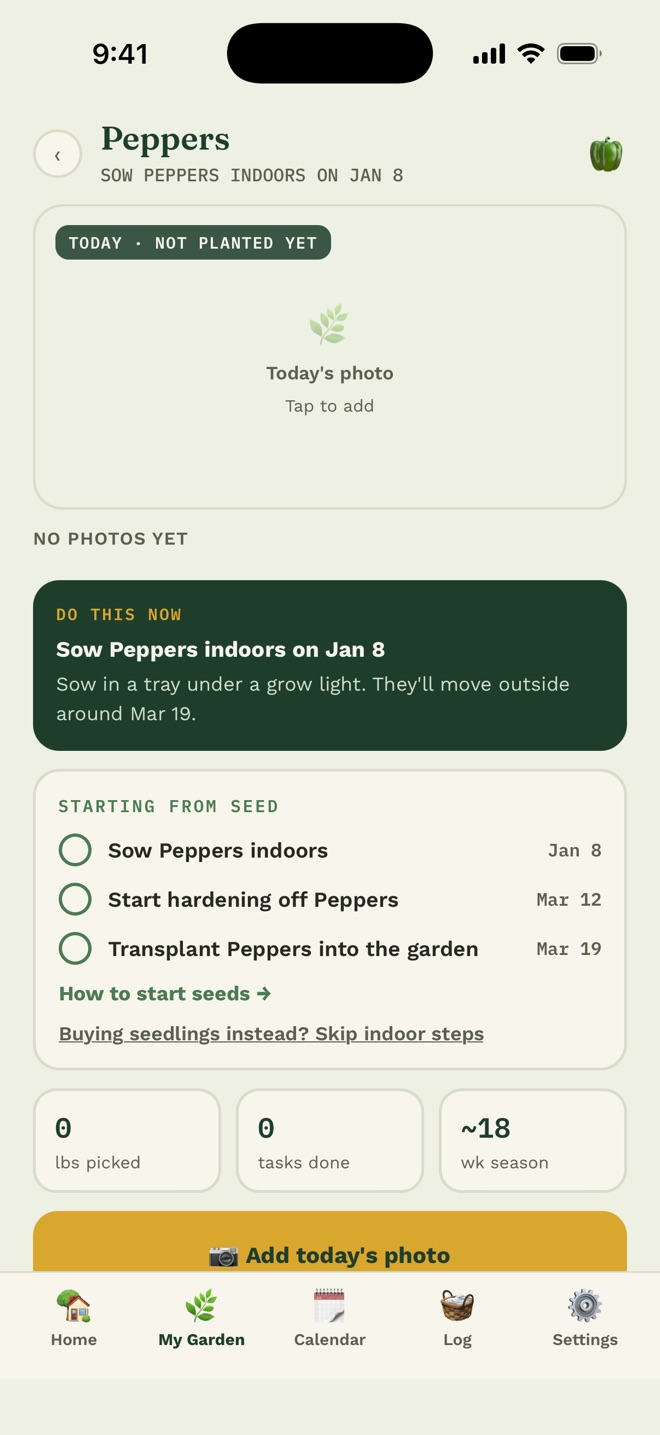
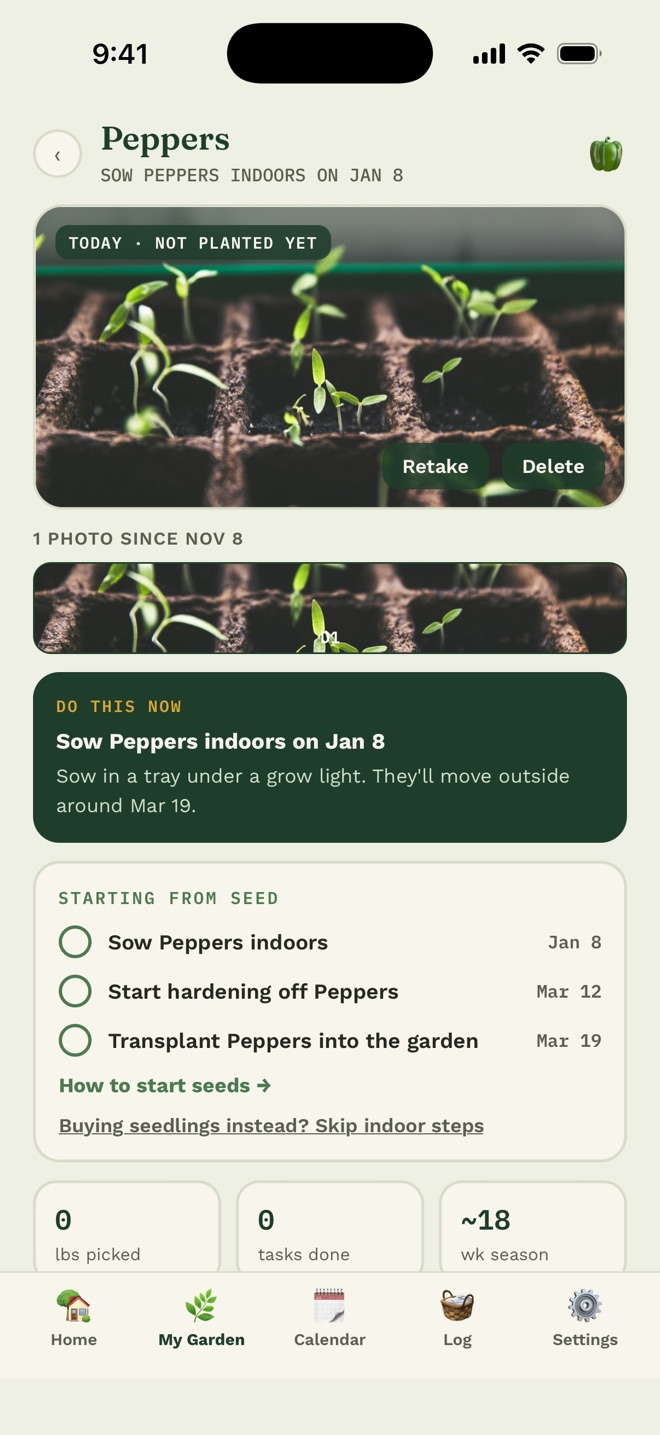
DRAFT: small-space line, 'Did you know' spinach fact with inline source, new CTA heading, footer tagline removed, real pepper seedling photo

diff --git a/docs/index.html b/docs/index.html
@@ -60,14 +60,14 @@
     <div class="split-head reveal">
       <div class="eyebrow">Why grow your own</div>
       <h2>The best food you’ll eat all year is a few steps from your back door.</h2>
+      <p class="split-sub">No backyard? No problem. A sunny balcony, a patio, or a few pots by the window can grow more food than you’d think.</p>
     </div>
     <div class="why-grid">
       <div class="why-card reveal"><div class="feature-icon">🥕</div><h3>Food you trust</h3><p>You choose the seeds, the soil, and everything that goes on your plants, so you always know exactly where dinner came from.</p></div>
-      <div class="why-card reveal"><div class="feature-icon">🥬</div><h3>More nutritious, too</h3><p>Spinach can lose nearly half its folate in about a week in the fridge. Grow your own, and it goes from garden to plate in minutes.</p></div>
+      <div class="why-card reveal"><div class="feature-icon">🥬</div><h3>More nutritious, too</h3><p>Did you know that spinach can lose nearly half its folate in about a week in the fridge?<a class="fn-mark" href="#fn-folate" aria-label="Source">*</a> Grow your own, and it goes from garden to plate in minutes.</p><p class="why-fn" id="fn-folate">* <a href="https://www.psu.edu/news/research/story/storage-time-and-temperature-effects-nutrients-spinach" target="_blank" rel="noopener">Penn State study of spinach storage, 2005</a></p></div>
       <div class="why-card reveal"><div class="feature-icon">💰</div><h3>Saves money over time</h3><p>A packet of lettuce seeds costs about the same as one bag of salad greens, and can keep you in salads for months.</p></div>
-      <div class="why-card reveal"><div class="feature-icon">🌱</div><h3>Easier than you think</h3><p>You don’t need a green thumb, just a plan. GardenWise gives you one for your backyard and walks you through it, step by step.</p></div>
+      <div class="why-card reveal"><div class="feature-icon">🌱</div><h3>Easier than you think</h3><p>You don’t need a green thumb, just a plan. GardenWise gives you one for wherever you grow and walks you through it, step by step.</p></div>
     </div>
-    <p class="why-source">Folate figure: <a href="https://www.psu.edu/news/research/story/storage-time-and-temperature-effects-nutrients-spinach" target="_blank" rel="noopener">Penn State study of spinach storage, 2005</a>.</p>
   </div>
 </section>
 
@@ -86,7 +86,7 @@
     </div>
     <div class="seeds-phones reveal">
       <div class="phone phone-back"><img src="/img/app-guide.jpg" width="660" height="1435" alt="The Seed starting 101 guide: seed-starting mix, a tray with a clear lid, a heat mat, a grow light, and a timer." loading="lazy"></div>
-      <div class="phone phone-front"><img src="/img/app-plant.jpg" width="660" height="1435" alt="The Peppers page: sow indoors Jan 8, start hardening off Mar 12, transplant Mar 19." loading="lazy"></div>
+      <div class="phone phone-front"><img src="/img/app-plant.jpg" width="660" height="1435" alt="The Peppers page with a photo of pepper seedlings in a tray: sow indoors Jan 8, start hardening off Mar 12, transplant Mar 19." loading="lazy"></div>
     </div>
   </div>
 </section>
@@ -188,7 +188,7 @@
 <section class="cta-band" id="waitlist">
   <div class="wrap reveal">
     <div class="eyebrow">Free on iPhone</div>
-    <h2>Start your garden plan today.</h2>
+    <h2>Start growing your own food today.</h2>
     <div class="band-badge"><a class="store-badge" href="https://apps.apple.com/us/app/gardenwise-care-reminders/id6817450373" aria-label="Download GardenWise on the App Store"><img src="/img/app-store-badge.svg" alt="Download on the App Store" width="180" height="60"></a></div>
     <p class="tips-lead">Not ready yet? Get seasonal garden tips by email.</p>
     <form class="waitlist" data-waitlist novalidate>
@@ -204,7 +204,6 @@
 
 <footer class="site-footer">
   <div class="wordmark"><svg class="brand-icon" viewBox="0 0 100 100" width="26" height="26" aria-hidden="true"><rect width="100" height="100" rx="24" fill="#F7EFD9"/><path transform="translate(39.65,33.96) rotate(-32)" d="M0,0 C-5,-1.93 -5,-9.08 0,-11 C5,-9.08 5,-1.93 0,0 Z" fill="#4C7A52"/><path transform="translate(60.35,33.96) rotate(32)" d="M0,0 C-5,-1.93 -5,-9.08 0,-11 C5,-9.08 5,-1.93 0,0 Z" fill="#1F3D2B"/><path d="M50,32 C27.5,32 23.45,68.75 34.25,81 C43.25,85.41 50,85.41 50,81.49 Z" fill="#1F3D2B"/><path d="M50,32 C72.5,32 76.55,68.75 65.75,81 C56.75,85.41 50,85.41 50,81.49 Z" fill="#4C7A52"/><circle cx="40.55" cy="53.56" r="7.5" fill="#F7F5EC"/><circle cx="59.45" cy="53.56" r="7.5" fill="#F7F5EC"/><circle cx="40.55" cy="53.56" r="3.2" fill="#1F3D2B"/><circle cx="59.45" cy="53.56" r="3.2" fill="#1F3D2B"/><path d="M47.6,57.97 L52.4,57.97 L50,60.91 Z" fill="#E3B94C"/></svg> GardenWise</div>
-  <div class="tagline">Grow your own food.</div>
   <div class="social"><a class="social-link" href="https://www.instagram.com/gardenwise.io/" target="_blank" rel="noopener" aria-label="GardenWise on Instagram"><svg viewBox="0 0 24 24" width="20" height="20" aria-hidden="true"><rect x="3" y="3" width="18" height="18" rx="5" fill="none" stroke="currentColor" stroke-width="2"/><circle cx="12" cy="12" r="4.2" fill="none" stroke="currentColor" stroke-width="2"/><circle cx="17.4" cy="6.6" r="1.3" fill="currentColor"/></svg></a><a class="social-link" href="https://www.facebook.com/gardenwise.io" target="_blank" rel="noopener" aria-label="GardenWise on Facebook"><svg viewBox="0 0 24 24" width="20" height="20" aria-hidden="true"><circle cx="12" cy="12" r="10" fill="none" stroke="currentColor" stroke-width="2"/><path d="M13.2 20.5v-6.9h2.3l.35-2.7H13.2V9.2c0-.78.22-1.3 1.33-1.3h1.42V5.5a19 19 0 0 0-2.07-.1c-2.05 0-3.45 1.25-3.45 3.55v1.95H8.1v2.7h2.33v6.9" fill="currentColor"/></svg></a><a class="social-link" href="https://www.tiktok.com/@gardenwise.io" target="_blank" rel="noopener" aria-label="GardenWise on TikTok"><svg viewBox="0 0 24 24" width="20" height="20" aria-hidden="true"><path d="M14.5 3h2.6c.2 1.9 1.5 3.3 3.4 3.6v2.6a6.3 6.3 0 0 1-3.4-1.1v6.6a5.6 5.6 0 1 1-5.6-5.6c.3 0 .6 0 .9.1v2.7a3 3 0 1 0 2.1 2.8z" fill="currentColor"/></svg></a></div>
   <div class="copy">© 2026 GardenWise · <a href="/blog/">Blog</a> · <a href="/privacy.html">Privacy Policy</a> · <a href="/support.html">Support</a></div>
 </footer>

diff --git a/docs/blog/when-to-fertilize-fruit-trees.html b/docs/blog/when-to-fertilize-fruit-trees.html
@@ -104,7 +104,6 @@
 
 <footer class="site-footer">
   <div class="wordmark"><svg class="brand-icon" viewBox="0 0 100 100" width="26" height="26" aria-hidden="true"><rect width="100" height="100" rx="24" fill="#F7EFD9"/><path transform="translate(39.65,33.96) rotate(-32)" d="M0,0 C-5,-1.93 -5,-9.08 0,-11 C5,-9.08 5,-1.93 0,0 Z" fill="#4C7A52"/><path transform="translate(60.35,33.96) rotate(32)" d="M0,0 C-5,-1.93 -5,-9.08 0,-11 C5,-9.08 5,-1.93 0,0 Z" fill="#1F3D2B"/><path d="M50,32 C27.5,32 23.45,68.75 34.25,81 C43.25,85.41 50,85.41 50,81.49 Z" fill="#1F3D2B"/><path d="M50,32 C72.5,32 76.55,68.75 65.75,81 C56.75,85.41 50,85.41 50,81.49 Z" fill="#4C7A52"/><circle cx="40.55" cy="53.56" r="7.5" fill="#F7F5EC"/><circle cx="59.45" cy="53.56" r="7.5" fill="#F7F5EC"/><circle cx="40.55" cy="53.56" r="3.2" fill="#1F3D2B"/><circle cx="59.45" cy="53.56" r="3.2" fill="#1F3D2B"/><path d="M47.6,57.97 L52.4,57.97 L50,60.91 Z" fill="#E3B94C"/></svg> GardenWise</div>
-  <div class="tagline">Grow your own food.</div>
   <div class="social"><a class="social-link" href="https://www.instagram.com/gardenwise.io/" target="_blank" rel="noopener" aria-label="GardenWise on Instagram"><svg viewBox="0 0 24 24" width="20" height="20" aria-hidden="true"><rect x="3" y="3" width="18" height="18" rx="5" fill="none" stroke="currentColor" stroke-width="2"/><circle cx="12" cy="12" r="4.2" fill="none" stroke="currentColor" stroke-width="2"/><circle cx="17.4" cy="6.6" r="1.3" fill="currentColor"/></svg></a><a class="social-link" href="https://www.facebook.com/gardenwise.io" target="_blank" rel="noopener" aria-label="GardenWise on Facebook"><svg viewBox="0 0 24 24" width="20" height="20" aria-hidden="true"><circle cx="12" cy="12" r="10" fill="none" stroke="currentColor" stroke-width="2"/><path d="M13.2 20.5v-6.9h2.3l.35-2.7H13.2V9.2c0-.78.22-1.3 1.33-1.3h1.42V5.5a19 19 0 0 0-2.07-.1c-2.05 0-3.45 1.25-3.45 3.55v1.95H8.1v2.7h2.33v6.9" fill="currentColor"/></svg></a><a class="social-link" href="https://www.tiktok.com/@gardenwise.io" target="_blank" rel="noopener" aria-label="GardenWise on TikTok"><svg viewBox="0 0 24 24" width="20" height="20" aria-hidden="true"><path d="M14.5 3h2.6c.2 1.9 1.5 3.3 3.4 3.6v2.6a6.3 6.3 0 0 1-3.4-1.1v6.6a5.6 5.6 0 1 1-5.6-5.6c.3 0 .6 0 .9.1v2.7a3 3 0 1 0 2.1 2.8z" fill="currentColor"/></svg></a></div>
   <div class="copy">© 2026 GardenWise · <a href="/blog/">Blog</a> · <a href="/privacy.html">Privacy Policy</a> · <a href="/support.html">Support</a></div>
 </footer>

diff --git a/docs/blog/when-to-start-seeds-indoors.html b/docs/blog/when-to-start-seeds-indoors.html
@@ -141,7 +141,6 @@
 
 <footer class="site-footer">
   <div class="wordmark"><svg class="brand-icon" viewBox="0 0 100 100" width="26" height="26" aria-hidden="true"><rect width="100" height="100" rx="24" fill="#F7EFD9"/><path transform="translate(39.65,33.96) rotate(-32)" d="M0,0 C-5,-1.93 -5,-9.08 0,-11 C5,-9.08 5,-1.93 0,0 Z" fill="#4C7A52"/><path transform="translate(60.35,33.96) rotate(32)" d="M0,0 C-5,-1.93 -5,-9.08 0,-11 C5,-9.08 5,-1.93 0,0 Z" fill="#1F3D2B"/><path d="M50,32 C27.5,32 23.45,68.75 34.25,81 C43.25,85.41 50,85.41 50,81.49 Z" fill="#1F3D2B"/><path d="M50,32 C72.5,32 76.55,68.75 65.75,81 C56.75,85.41 50,85.41 50,81.49 Z" fill="#4C7A52"/><circle cx="40.55" cy="53.56" r="7.5" fill="#F7F5EC"/><circle cx="59.45" cy="53.56" r="7.5" fill="#F7F5EC"/><circle cx="40.55" cy="53.56" r="3.2" fill="#1F3D2B"/><circle cx="59.45" cy="53.56" r="3.2" fill="#1F3D2B"/><path d="M47.6,57.97 L52.4,57.97 L50,60.91 Z" fill="#E3B94C"/></svg> GardenWise</div>
-  <div class="tagline">Grow your own food.</div>
   <div class="social"><a class="social-link" href="https://www.instagram.com/gardenwise.io/" target="_blank" rel="noopener" aria-label="GardenWise on Instagram"><svg viewBox="0 0 24 24" width="20" height="20" aria-hidden="true"><rect x="3" y="3" width="18" height="18" rx="5" fill="none" stroke="currentColor" stroke-width="2"/><circle cx="12" cy="12" r="4.2" fill="none" stroke="currentColor" stroke-width="2"/><circle cx="17.4" cy="6.6" r="1.3" fill="currentColor"/></svg></a><a class="social-link" href="https://www.facebook.com/gardenwise.io" target="_blank" rel="noopener" aria-label="GardenWise on Facebook"><svg viewBox="0 0 24 24" width="20" height="20" aria-hidden="true"><circle cx="12" cy="12" r="10" fill="none" stroke="currentColor" stroke-width="2"/><path d="M13.2 20.5v-6.9h2.3l.35-2.7H13.2V9.2c0-.78.22-1.3 1.33-1.3h1.42V5.5a19 19 0 0 0-2.07-.1c-2.05 0-3.45 1.25-3.45 3.55v1.95H8.1v2.7h2.33v6.9" fill="currentColor"/></svg></a><a class="social-link" href="https://www.tiktok.com/@gardenwise.io" target="_blank" rel="noopener" aria-label="GardenWise on TikTok"><svg viewBox="0 0 24 24" width="20" height="20" aria-hidden="true"><path d="M14.5 3h2.6c.2 1.9 1.5 3.3 3.4 3.6v2.6a6.3 6.3 0 0 1-3.4-1.1v6.6a5.6 5.6 0 1 1-5.6-5.6c.3 0 .6 0 .9.1v2.7a3 3 0 1 0 2.1 2.8z" fill="currentColor"/></svg></a></div>
   <div class="copy">© 2026 GardenWise · <a href="/blog/">Blog</a> · <a href="/privacy.html">Privacy Policy</a> · <a href="/support.html">Support</a></div>
 </footer>

diff --git a/docs/privacy.html b/docs/privacy.html
@@ -114,7 +114,6 @@
 
 <footer class="site-footer">
   <div class="wordmark"><svg class="brand-icon" viewBox="0 0 100 100" width="26" height="26" aria-hidden="true"><rect width="100" height="100" rx="24" fill="#F7EFD9"/><path transform="translate(39.65,33.96) rotate(-32)" d="M0,0 C-5,-1.93 -5,-9.08 0,-11 C5,-9.08 5,-1.93 0,0 Z" fill="#4C7A52"/><path transform="translate(60.35,33.96) rotate(32)" d="M0,0 C-5,-1.93 -5,-9.08 0,-11 C5,-9.08 5,-1.93 0,0 Z" fill="#1F3D2B"/><path d="M50,32 C27.5,32 23.45,68.75 34.25,81 C43.25,85.41 50,85.41 50,81.49 Z" fill="#1F3D2B"/><path d="M50,32 C72.5,32 76.55,68.75 65.75,81 C56.75,85.41 50,85.41 50,81.49 Z" fill="#4C7A52"/><circle cx="40.55" cy="53.56" r="7.5" fill="#F7F5EC"/><circle cx="59.45" cy="53.56" r="7.5" fill="#F7F5EC"/><circle cx="40.55" cy="53.56" r="3.2" fill="#1F3D2B"/><circle cx="59.45" cy="53.56" r="3.2" fill="#1F3D2B"/><path d="M47.6,57.97 L52.4,57.97 L50,60.91 Z" fill="#E3B94C"/></svg> GardenWise</div>
-  <div class="tagline">Grow your own food.</div>
   <div class="social"><a class="social-link" href="https://www.instagram.com/gardenwise.io/" target="_blank" rel="noopener" aria-label="GardenWise on Instagram"><svg viewBox="0 0 24 24" width="20" height="20" aria-hidden="true"><rect x="3" y="3" width="18" height="18" rx="5" fill="none" stroke="currentColor" stroke-width="2"/><circle cx="12" cy="12" r="4.2" fill="none" stroke="currentColor" stroke-width="2"/><circle cx="17.4" cy="6.6" r="1.3" fill="currentColor"/></svg></a><a class="social-link" href="https://www.facebook.com/gardenwise.io" target="_blank" rel="noopener" aria-label="GardenWise on Facebook"><svg viewBox="0 0 24 24" width="20" height="20" aria-hidden="true"><circle cx="12" cy="12" r="10" fill="none" stroke="currentColor" stroke-width="2"/><path d="M13.2 20.5v-6.9h2.3l.35-2.7H13.2V9.2c0-.78.22-1.3 1.33-1.3h1.42V5.5a19 19 0 0 0-2.07-.1c-2.05 0-3.45 1.25-3.45 3.55v1.95H8.1v2.7h2.33v6.9" fill="currentColor"/></svg></a><a class="social-link" href="https://www.tiktok.com/@gardenwise.io" target="_blank" rel="noopener" aria-label="GardenWise on TikTok"><svg viewBox="0 0 24 24" width="20" height="20" aria-hidden="true"><path d="M14.5 3h2.6c.2 1.9 1.5 3.3 3.4 3.6v2.6a6.3 6.3 0 0 1-3.4-1.1v6.6a5.6 5.6 0 1 1-5.6-5.6c.3 0 .6 0 .9.1v2.7a3 3 0 1 0 2.1 2.8z" fill="currentColor"/></svg></a></div>
   <div class="copy">© 2026 GardenWise · <a href="/blog/">Blog</a> · <a href="/privacy.html">Privacy Policy</a> · <a href="/support.html">Support</a></div>
 </footer>

diff --git a/docs/blog/container-citrus-tree-care.html b/docs/blog/container-citrus-tree-care.html
@@ -91,7 +91,6 @@
 
 <footer class="site-footer">
   <div class="wordmark"><svg class="brand-icon" viewBox="0 0 100 100" width="26" height="26" aria-hidden="true"><rect width="100" height="100" rx="24" fill="#F7EFD9"/><path transform="translate(39.65,33.96) rotate(-32)" d="M0,0 C-5,-1.93 -5,-9.08 0,-11 C5,-9.08 5,-1.93 0,0 Z" fill="#4C7A52"/><path transform="translate(60.35,33.96) rotate(32)" d="M0,0 C-5,-1.93 -5,-9.08 0,-11 C5,-9.08 5,-1.93 0,0 Z" fill="#1F3D2B"/><path d="M50,32 C27.5,32 23.45,68.75 34.25,81 C43.25,85.41 50,85.41 50,81.49 Z" fill="#1F3D2B"/><path d="M50,32 C72.5,32 76.55,68.75 65.75,81 C56.75,85.41 50,85.41 50,81.49 Z" fill="#4C7A52"/><circle cx="40.55" cy="53.56" r="7.5" fill="#F7F5EC"/><circle cx="59.45" cy="53.56" r="7.5" fill="#F7F5EC"/><circle cx="40.55" cy="53.56" r="3.2" fill="#1F3D2B"/><circle cx="59.45" cy="53.56" r="3.2" fill="#1F3D2B"/><path d="M47.6,57.97 L52.4,57.97 L50,60.91 Z" fill="#E3B94C"/></svg> GardenWise</div>
-  <div class="tagline">Grow your own food.</div>
   <div class="social"><a class="social-link" href="https://www.instagram.com/gardenwise.io/" target="_blank" rel="noopener" aria-label="GardenWise on Instagram"><svg viewBox="0 0 24 24" width="20" height="20" aria-hidden="true"><rect x="3" y="3" width="18" height="18" rx="5" fill="none" stroke="currentColor" stroke-width="2"/><circle cx="12" cy="12" r="4.2" fill="none" stroke="currentColor" stroke-width="2"/><circle cx="17.4" cy="6.6" r="1.3" fill="currentColor"/></svg></a><a class="social-link" href="https://www.facebook.com/gardenwise.io" target="_blank" rel="noopener" aria-label="GardenWise on Facebook"><svg viewBox="0 0 24 24" width="20" height="20" aria-hidden="true"><circle cx="12" cy="12" r="10" fill="none" stroke="currentColor" stroke-width="2"/><path d="M13.2 20.5v-6.9h2.3l.35-2.7H13.2V9.2c0-.78.22-1.3 1.33-1.3h1.42V5.5a19 19 0 0 0-2.07-.1c-2.05 0-3.45 1.25-3.45 3.55v1.95H8.1v2.7h2.33v6.9" fill="currentColor"/></svg></a><a class="social-link" href="https://www.tiktok.com/@gardenwise.io" target="_blank" rel="noopener" aria-label="GardenWise on TikTok"><svg viewBox="0 0 24 24" width="20" height="20" aria-hidden="true"><path d="M14.5 3h2.6c.2 1.9 1.5 3.3 3.4 3.6v2.6a6.3 6.3 0 0 1-3.4-1.1v6.6a5.6 5.6 0 1 1-5.6-5.6c.3 0 .6 0 .9.1v2.7a3 3 0 1 0 2.1 2.8z" fill="currentColor"/></svg></a></div>
   <div class="copy">© 2026 GardenWise · <a href="/blog/">Blog</a> · <a href="/privacy.html">Privacy Policy</a> · <a href="/support.html">Support</a></div>
 </footer>

diff --git a/docs/blog/hardiness-zones-vs-frost-dates.html b/docs/blog/hardiness-zones-vs-frost-dates.html
@@ -89,7 +89,6 @@
 
 <footer class="site-footer">
   <div class="wordmark"><svg class="brand-icon" viewBox="0 0 100 100" width="26" height="26" aria-hidden="true"><rect width="100" height="100" rx="24" fill="#F7EFD9"/><path transform="translate(39.65,33.96) rotate(-32)" d="M0,0 C-5,-1.93 -5,-9.08 0,-11 C5,-9.08 5,-1.93 0,0 Z" fill="#4C7A52"/><path transform="translate(60.35,33.96) rotate(32)" d="M0,0 C-5,-1.93 -5,-9.08 0,-11 C5,-9.08 5,-1.93 0,0 Z" fill="#1F3D2B"/><path d="M50,32 C27.5,32 23.45,68.75 34.25,81 C43.25,85.41 50,85.41 50,81.49 Z" fill="#1F3D2B"/><path d="M50,32 C72.5,32 76.55,68.75 65.75,81 C56.75,85.41 50,85.41 50,81.49 Z" fill="#4C7A52"/><circle cx="40.55" cy="53.56" r="7.5" fill="#F7F5EC"/><circle cx="59.45" cy="53.56" r="7.5" fill="#F7F5EC"/><circle cx="40.55" cy="53.56" r="3.2" fill="#1F3D2B"/><circle cx="59.45" cy="53.56" r="3.2" fill="#1F3D2B"/><path d="M47.6,57.97 L52.4,57.97 L50,60.91 Z" fill="#E3B94C"/></svg> GardenWise</div>
-  <div class="tagline">Grow your own food.</div>
   <div class="social"><a class="social-link" href="https://www.instagram.com/gardenwise.io/" target="_blank" rel="noopener" aria-label="GardenWise on Instagram"><svg viewBox="0 0 24 24" width="20" height="20" aria-hidden="true"><rect x="3" y="3" width="18" height="18" rx="5" fill="none" stroke="currentColor" stroke-width="2"/><circle cx="12" cy="12" r="4.2" fill="none" stroke="currentColor" stroke-width="2"/><circle cx="17.4" cy="6.6" r="1.3" fill="currentColor"/></svg></a><a class="social-link" href="https://www.facebook.com/gardenwise.io" target="_blank" rel="noopener" aria-label="GardenWise on Facebook"><svg viewBox="0 0 24 24" width="20" height="20" aria-hidden="true"><circle cx="12" cy="12" r="10" fill="none" stroke="currentColor" stroke-width="2"/><path d="M13.2 20.5v-6.9h2.3l.35-2.7H13.2V9.2c0-.78.22-1.3 1.33-1.3h1.42V5.5a19 19 0 0 0-2.07-.1c-2.05 0-3.45 1.25-3.45 3.55v1.95H8.1v2.7h2.33v6.9" fill="currentColor"/></svg></a><a class="social-link" href="https://www.tiktok.com/@gardenwise.io" target="_blank" rel="noopener" aria-label="GardenWise on TikTok"><svg viewBox="0 0 24 24" width="20" height="20" aria-hidden="true"><path d="M14.5 3h2.6c.2 1.9 1.5 3.3 3.4 3.6v2.6a6.3 6.3 0 0 1-3.4-1.1v6.6a5.6 5.6 0 1 1-5.6-5.6c.3 0 .6 0 .9.1v2.7a3 3 0 1 0 2.1 2.8z" fill="currentColor"/></svg></a></div>
   <div class="copy">© 2026 GardenWise · <a href="/blog/">Blog</a> · <a href="/privacy.html">Privacy Policy</a> · <a href="/support.html">Support</a></div>
 </footer>

diff --git a/docs/blog/how-often-to-water-vegetable-garden.html b/docs/blog/how-often-to-water-vegetable-garden.html
@@ -91,7 +91,6 @@
 
 <footer class="site-footer">
   <div class="wordmark"><svg class="brand-icon" viewBox="0 0 100 100" width="26" height="26" aria-hidden="true"><rect width="100" height="100" rx="24" fill="#F7EFD9"/><path transform="translate(39.65,33.96) rotate(-32)" d="M0,0 C-5,-1.93 -5,-9.08 0,-11 C5,-9.08 5,-1.93 0,0 Z" fill="#4C7A52"/><path transform="translate(60.35,33.96) rotate(32)" d="M0,0 C-5,-1.93 -5,-9.08 0,-11 C5,-9.08 5,-1.93 0,0 Z" fill="#1F3D2B"/><path d="M50,32 C27.5,32 23.45,68.75 34.25,81 C43.25,85.41 50,85.41 50,81.49 Z" fill="#1F3D2B"/><path d="M50,32 C72.5,32 76.55,68.75 65.75,81 C56.75,85.41 50,85.41 50,81.49 Z" fill="#4C7A52"/><circle cx="40.55" cy="53.56" r="7.5" fill="#F7F5EC"/><circle cx="59.45" cy="53.56" r="7.5" fill="#F7F5EC"/><circle cx="40.55" cy="53.56" r="3.2" fill="#1F3D2B"/><circle cx="59.45" cy="53.56" r="3.2" fill="#1F3D2B"/><path d="M47.6,57.97 L52.4,57.97 L50,60.91 Z" fill="#E3B94C"/></svg> GardenWise</div>
-  <div class="tagline">Grow your own food.</div>
   <div class="social"><a class="social-link" href="https://www.instagram.com/gardenwise.io/" target="_blank" rel="noopener" aria-label="GardenWise on Instagram"><svg viewBox="0 0 24 24" width="20" height="20" aria-hidden="true"><rect x="3" y="3" width="18" height="18" rx="5" fill="none" stroke="currentColor" stroke-width="2"/><circle cx="12" cy="12" r="4.2" fill="none" stroke="currentColor" stroke-width="2"/><circle cx="17.4" cy="6.6" r="1.3" fill="currentColor"/></svg></a><a class="social-link" href="https://www.facebook.com/gardenwise.io" target="_blank" rel="noopener" aria-label="GardenWise on Facebook"><svg viewBox="0 0 24 24" width="20" height="20" aria-hidden="true"><circle cx="12" cy="12" r="10" fill="none" stroke="currentColor" stroke-width="2"/><path d="M13.2 20.5v-6.9h2.3l.35-2.7H13.2V9.2c0-.78.22-1.3 1.33-1.3h1.42V5.5a19 19 0 0 0-2.07-.1c-2.05 0-3.45 1.25-3.45 3.55v1.95H8.1v2.7h2.33v6.9" fill="currentColor"/></svg></a><a class="social-link" href="https://www.tiktok.com/@gardenwise.io" target="_blank" rel="noopener" aria-label="GardenWise on TikTok"><svg viewBox="0 0 24 24" width="20" height="20" aria-hidden="true"><path d="M14.5 3h2.6c.2 1.9 1.5 3.3 3.4 3.6v2.6a6.3 6.3 0 0 1-3.4-1.1v6.6a5.6 5.6 0 1 1-5.6-5.6c.3 0 .6 0 .9.1v2.7a3 3 0 1 0 2.1 2.8z" fill="currentColor"/></svg></a></div>
   <div class="copy">© 2026 GardenWise · <a href="/blog/">Blog</a> · <a href="/privacy.html">Privacy Policy</a> · <a href="/support.html">Support</a></div>
 </footer>

diff --git a/docs/blog/raised-bed-vs-in-ground-gardening.html b/docs/blog/raised-bed-vs-in-ground-gardening.html
@@ -87,7 +87,6 @@
 
 <footer class="site-footer">
   <div class="wordmark"><svg class="brand-icon" viewBox="0 0 100 100" width="26" height="26" aria-hidden="true"><rect width="100" height="100" rx="24" fill="#F7EFD9"/><path transform="translate(39.65,33.96) rotate(-32)" d="M0,0 C-5,-1.93 -5,-9.08 0,-11 C5,-9.08 5,-1.93 0,0 Z" fill="#4C7A52"/><path transform="translate(60.35,33.96) rotate(32)" d="M0,0 C-5,-1.93 -5,-9.08 0,-11 C5,-9.08 5,-1.93 0,0 Z" fill="#1F3D2B"/><path d="M50,32 C27.5,32 23.45,68.75 34.25,81 C43.25,85.41 50,85.41 50,81.49 Z" fill="#1F3D2B"/><path d="M50,32 C72.5,32 76.55,68.75 65.75,81 C56.75,85.41 50,85.41 50,81.49 Z" fill="#4C7A52"/><circle cx="40.55" cy="53.56" r="7.5" fill="#F7F5EC"/><circle cx="59.45" cy="53.56" r="7.5" fill="#F7F5EC"/><circle cx="40.55" cy="53.56" r="3.2" fill="#1F3D2B"/><circle cx="59.45" cy="53.56" r="3.2" fill="#1F3D2B"/><path d="M47.6,57.97 L52.4,57.97 L50,60.91 Z" fill="#E3B94C"/></svg> GardenWise</div>
-  <div class="tagline">Grow your own food.</div>
   <div class="social"><a class="social-link" href="https://www.instagram.com/gardenwise.io/" target="_blank" rel="noopener" aria-label="GardenWise on Instagram"><svg viewBox="0 0 24 24" width="20" height="20" aria-hidden="true"><rect x="3" y="3" width="18" height="18" rx="5" fill="none" stroke="currentColor" stroke-width="2"/><circle cx="12" cy="12" r="4.2" fill="none" stroke="currentColor" stroke-width="2"/><circle cx="17.4" cy="6.6" r="1.3" fill="currentColor"/></svg></a><a class="social-link" href="https://www.facebook.com/gardenwise.io" target="_blank" rel="noopener" aria-label="GardenWise on Facebook"><svg viewBox="0 0 24 24" width="20" height="20" aria-hidden="true"><circle cx="12" cy="12" r="10" fill="none" stroke="currentColor" stroke-width="2"/><path d="M13.2 20.5v-6.9h2.3l.35-2.7H13.2V9.2c0-.78.22-1.3 1.33-1.3h1.42V5.5a19 19 0 0 0-2.07-.1c-2.05 0-3.45 1.25-3.45 3.55v1.95H8.1v2.7h2.33v6.9" fill="currentColor"/></svg></a><a class="social-link" href="https://www.tiktok.com/@gardenwise.io" target="_blank" rel="noopener" aria-label="GardenWise on TikTok"><svg viewBox="0 0 24 24" width="20" height="20" aria-hidden="true"><path d="M14.5 3h2.6c.2 1.9 1.5 3.3 3.4 3.6v2.6a6.3 6.3 0 0 1-3.4-1.1v6.6a5.6 5.6 0 1 1-5.6-5.6c.3 0 .6 0 .9.1v2.7a3 3 0 1 0 2.1 2.8z" fill="currentColor"/></svg></a></div>
   <div class="copy">© 2026 GardenWise · <a href="/blog/">Blog</a> · <a href="/privacy.html">Privacy Policy</a> · <a href="/support.html">Support</a></div>
 </footer>

diff --git a/docs/blog/succession-planting-guide.html b/docs/blog/succession-planting-guide.html
@@ -94,7 +94,6 @@
 
 <footer class="site-footer">
   <div class="wordmark"><svg class="brand-icon" viewBox="0 0 100 100" width="26" height="26" aria-hidden="true"><rect width="100" height="100" rx="24" fill="#F7EFD9"/><path transform="translate(39.65,33.96) rotate(-32)" d="M0,0 C-5,-1.93 -5,-9.08 0,-11 C5,-9.08 5,-1.93 0,0 Z" fill="#4C7A52"/><path transform="translate(60.35,33.96) rotate(32)" d="M0,0 C-5,-1.93 -5,-9.08 0,-11 C5,-9.08 5,-1.93 0,0 Z" fill="#1F3D2B"/><path d="M50,32 C27.5,32 23.45,68.75 34.25,81 C43.25,85.41 50,85.41 50,81.49 Z" fill="#1F3D2B"/><path d="M50,32 C72.5,32 76.55,68.75 65.75,81 C56.75,85.41 50,85.41 50,81.49 Z" fill="#4C7A52"/><circle cx="40.55" cy="53.56" r="7.5" fill="#F7F5EC"/><circle cx="59.45" cy="53.56" r="7.5" fill="#F7F5EC"/><circle cx="40.55" cy="53.56" r="3.2" fill="#1F3D2B"/><circle cx="59.45" cy="53.56" r="3.2" fill="#1F3D2B"/><path d="M47.6,57.97 L52.4,57.97 L50,60.91 Z" fill="#E3B94C"/></svg> GardenWise</div>
-  <div class="tagline">Grow your own food.</div>
   <div class="social"><a class="social-link" href="https://www.instagram.com/gardenwise.io/" target="_blank" rel="noopener" aria-label="GardenWise on Instagram"><svg viewBox="0 0 24 24" width="20" height="20" aria-hidden="true"><rect x="3" y="3" width="18" height="18" rx="5" fill="none" stroke="currentColor" stroke-width="2"/><circle cx="12" cy="12" r="4.2" fill="none" stroke="currentColor" stroke-width="2"/><circle cx="17.4" cy="6.6" r="1.3" fill="currentColor"/></svg></a><a class="social-link" href="https://www.facebook.com/gardenwise.io" target="_blank" rel="noopener" aria-label="GardenWise on Facebook"><svg viewBox="0 0 24 24" width="20" height="20" aria-hidden="true"><circle cx="12" cy="12" r="10" fill="none" stroke="currentColor" stroke-width="2"/><path d="M13.2 20.5v-6.9h2.3l.35-2.7H13.2V9.2c0-.78.22-1.3 1.33-1.3h1.42V5.5a19 19 0 0 0-2.07-.1c-2.05 0-3.45 1.25-3.45 3.55v1.95H8.1v2.7h2.33v6.9" fill="currentColor"/></svg></a><a class="social-link" href="https://www.tiktok.com/@gardenwise.io" target="_blank" rel="noopener" aria-label="GardenWise on TikTok"><svg viewBox="0 0 24 24" width="20" height="20" aria-hidden="true"><path d="M14.5 3h2.6c.2 1.9 1.5 3.3 3.4 3.6v2.6a6.3 6.3 0 0 1-3.4-1.1v6.6a5.6 5.6 0 1 1-5.6-5.6c.3 0 .6 0 .9.1v2.7a3 3 0 1 0 2.1 2.8z" fill="currentColor"/></svg></a></div>
   <div class="copy">© 2026 GardenWise · <a href="/blog/">Blog</a> · <a href="/privacy.html">Privacy Policy</a> · <a href="/support.html">Support</a></div>
 </footer>

diff --git a/docs/support.html b/docs/support.html
@@ -75,7 +75,6 @@
 
 <footer class="site-footer">
   <div class="wordmark"><svg class="brand-icon" viewBox="0 0 100 100" width="26" height="26" aria-hidden="true"><rect width="100" height="100" rx="24" fill="#F7EFD9"/><path transform="translate(39.65,33.96) rotate(-32)" d="M0,0 C-5,-1.93 -5,-9.08 0,-11 C5,-9.08 5,-1.93 0,0 Z" fill="#4C7A52"/><path transform="translate(60.35,33.96) rotate(32)" d="M0,0 C-5,-1.93 -5,-9.08 0,-11 C5,-9.08 5,-1.93 0,0 Z" fill="#1F3D2B"/><path d="M50,32 C27.5,32 23.45,68.75 34.25,81 C43.25,85.41 50,85.41 50,81.49 Z" fill="#1F3D2B"/><path d="M50,32 C72.5,32 76.55,68.75 65.75,81 C56.75,85.41 50,85.41 50,81.49 Z" fill="#4C7A52"/><circle cx="40.55" cy="53.56" r="7.5" fill="#F7F5EC"/><circle cx="59.45" cy="53.56" r="7.5" fill="#F7F5EC"/><circle cx="40.55" cy="53.56" r="3.2" fill="#1F3D2B"/><circle cx="59.45" cy="53.56" r="3.2" fill="#1F3D2B"/><path d="M47.6,57.97 L52.4,57.97 L50,60.91 Z" fill="#E3B94C"/></svg> GardenWise</div>
-  <div class="tagline">Grow your own food.</div>
   <div class="social"><a class="social-link" href="https://www.instagram.com/gardenwise.io/" target="_blank" rel="noopener" aria-label="GardenWise on Instagram"><svg viewBox="0 0 24 24" width="20" height="20" aria-hidden="true"><rect x="3" y="3" width="18" height="18" rx="5" fill="none" stroke="currentColor" stroke-width="2"/><circle cx="12" cy="12" r="4.2" fill="none" stroke="currentColor" stroke-width="2"/><circle cx="17.4" cy="6.6" r="1.3" fill="currentColor"/></svg></a><a class="social-link" href="https://www.facebook.com/gardenwise.io" target="_blank" rel="noopener" aria-label="GardenWise on Facebook"><svg viewBox="0 0 24 24" width="20" height="20" aria-hidden="true"><circle cx="12" cy="12" r="10" fill="none" stroke="currentColor" stroke-width="2"/><path d="M13.2 20.5v-6.9h2.3l.35-2.7H13.2V9.2c0-.78.22-1.3 1.33-1.3h1.42V5.5a19 19 0 0 0-2.07-.1c-2.05 0-3.45 1.25-3.45 3.55v1.95H8.1v2.7h2.33v6.9" fill="currentColor"/></svg></a><a class="social-link" href="https://www.tiktok.com/@gardenwise.io" target="_blank" rel="noopener" aria-label="GardenWise on TikTok"><svg viewBox="0 0 24 24" width="20" height="20" aria-hidden="true"><path d="M14.5 3h2.6c.2 1.9 1.5 3.3 3.4 3.6v2.6a6.3 6.3 0 0 1-3.4-1.1v6.6a5.6 5.6 0 1 1-5.6-5.6c.3 0 .6 0 .9.1v2.7a3 3 0 1 0 2.1 2.8z" fill="currentColor"/></svg></a></div>
   <div class="copy">© 2026 GardenWise · <a href="/blog/">Blog</a> · <a href="/privacy.html">Privacy Policy</a> · <a href="/support.html">Support</a></div>
 </footer>

diff --git a/docs/blog/index.html b/docs/blog/index.html
@@ -87,7 +87,6 @@
 
 <footer class="site-footer">
   <div class="wordmark"><svg class="brand-icon" viewBox="0 0 100 100" width="26" height="26" aria-hidden="true"><rect width="100" height="100" rx="24" fill="#F7EFD9"/><path transform="translate(39.65,33.96) rotate(-32)" d="M0,0 C-5,-1.93 -5,-9.08 0,-11 C5,-9.08 5,-1.93 0,0 Z" fill="#4C7A52"/><path transform="translate(60.35,33.96) rotate(32)" d="M0,0 C-5,-1.93 -5,-9.08 0,-11 C5,-9.08 5,-1.93 0,0 Z" fill="#1F3D2B"/><path d="M50,32 C27.5,32 23.45,68.75 34.25,81 C43.25,85.41 50,85.41 50,81.49 Z" fill="#1F3D2B"/><path d="M50,32 C72.5,32 76.55,68.75 65.75,81 C56.75,85.41 50,85.41 50,81.49 Z" fill="#4C7A52"/><circle cx="40.55" cy="53.56" r="7.5" fill="#F7F5EC"/><circle cx="59.45" cy="53.56" r="7.5" fill="#F7F5EC"/><circle cx="40.55" cy="53.56" r="3.2" fill="#1F3D2B"/><circle cx="59.45" cy="53.56" r="3.2" fill="#1F3D2B"/><path d="M47.6,57.97 L52.4,57.97 L50,60.91 Z" fill="#E3B94C"/></svg> GardenWise</div>
-  <div class="tagline">Grow your own food.</div>
   <div class="social"><a class="social-link" href="https://www.instagram.com/gardenwise.io/" target="_blank" rel="noopener" aria-label="GardenWise on Instagram"><svg viewBox="0 0 24 24" width="20" height="20" aria-hidden="true"><rect x="3" y="3" width="18" height="18" rx="5" fill="none" stroke="currentColor" stroke-width="2"/><circle cx="12" cy="12" r="4.2" fill="none" stroke="currentColor" stroke-width="2"/><circle cx="17.4" cy="6.6" r="1.3" fill="currentColor"/></svg></a><a class="social-link" href="https://www.facebook.com/gardenwise.io" target="_blank" rel="noopener" aria-label="GardenWise on Facebook"><svg viewBox="0 0 24 24" width="20" height="20" aria-hidden="true"><circle cx="12" cy="12" r="10" fill="none" stroke="currentColor" stroke-width="2"/><path d="M13.2 20.5v-6.9h2.3l.35-2.7H13.2V9.2c0-.78.22-1.3 1.33-1.3h1.42V5.5a19 19 0 0 0-2.07-.1c-2.05 0-3.45 1.25-3.45 3.55v1.95H8.1v2.7h2.33v6.9" fill="currentColor"/></svg></a><a class="social-link" href="https://www.tiktok.com/@gardenwise.io" target="_blank" rel="noopener" aria-label="GardenWise on TikTok"><svg viewBox="0 0 24 24" width="20" height="20" aria-hidden="true"><path d="M14.5 3h2.6c.2 1.9 1.5 3.3 3.4 3.6v2.6a6.3 6.3 0 0 1-3.4-1.1v6.6a5.6 5.6 0 1 1-5.6-5.6c.3 0 .6 0 .9.1v2.7a3 3 0 1 0 2.1 2.8z" fill="currentColor"/></svg></a></div>
   <div class="copy">© 2026 GardenWise · <a href="/">Home</a> · <a href="/privacy.html">Privacy Policy</a> · <a href="/support.html">Support</a></div>
 </footer>

diff --git a/docs/styles.css b/docs/styles.css
@@ -254,8 +254,9 @@ a:focus-visible, button:focus-visible { outline: 2px solid var(--moss); outline-
 /* ---------- why grow your own ---------- */
 .why { padding: 88px 24px 8px; }
 .why-grid { display: grid; grid-template-columns: repeat(2, minmax(0, 1fr)); gap: 22px; max-width: 860px; margin: 0 auto; }
-.why-source { text-align: center; margin-top: 22px; font-size: 12px; color: var(--ink-soft); }
-.why-source a { color: var(--moss); }
+.why-card .fn-mark { color: var(--moss); text-decoration: none; font-weight: 600; }
+.why-card .why-fn { margin-top: 12px; font-size: 11.5px; line-height: 1.5; }
+.why-card .why-fn a { color: var(--moss); }
 .why-card { background: var(--card); border: 1.5px solid var(--line); border-radius: 20px; padding: 28px 24px; }
 .why-card h3 { font-size: 18px; margin-bottom: 10px; line-height: 1.3; }
 .why-card p { font-size: 13.5px; line-height: 1.65; color: var(--ink-soft); }
@@ -265,6 +266,7 @@ a:focus-visible, button:focus-visible { outline: 2px solid var(--moss); outline-
 .split-head { text-align: center; margin-bottom: 52px; }
 .split-head .eyebrow { color: var(--moss); }
 .split-head h2 { font-size: clamp(24px, 3vw, 32px); margin-top: 12px; max-width: 32ch; margin-inline: auto; }
+.split-head .split-sub { margin: 14px auto 0; max-width: 52ch; font-size: 15.5px; line-height: 1.6; color: var(--ink-soft); }
 .split-grid { display: grid; grid-template-columns: 1fr 1fr; gap: 40px; }
 .split-col {
   background: var(--card);
